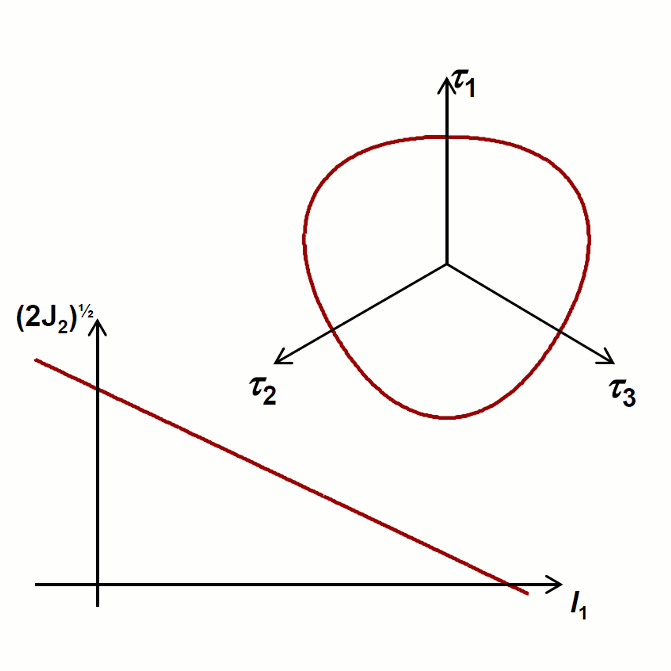
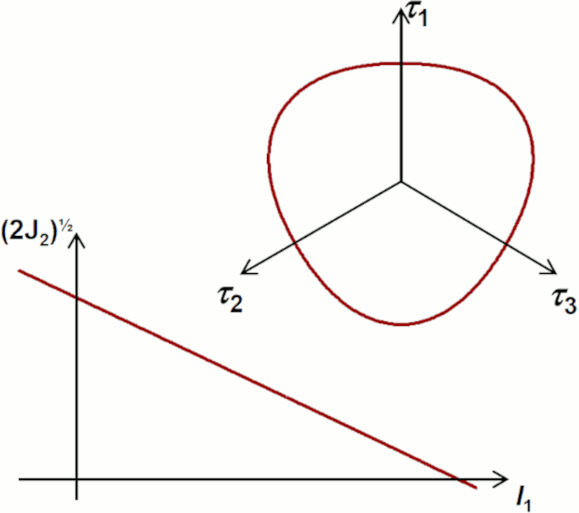
Added ReX & GG page

diff --git a/rex_gg.md b/rex_gg.md
@@ -1,0 +1,28 @@
+---
+layout: page
+title: Recrystallization and Grain Growth
+permalink: /rex_gg/
+---
+
+# Recrystallization and Grain Growth
+
+![CA](/images/ca.png)
+
+## References
+
+Further details on modeling and simulation of recrystallization and grain growth phenomena can be found in:
+
+1. [H. Hallberg, A. Chamanfar and N. Nanninga, **A constitutive model for the flow stress behavior and microstructure evolution in aluminum alloys under hot working conditions - with application to AA6099**, *Applied Mathematical Modelling*, 81C:253-262, 2020](https://doi.org/10.1016/j.apm.2019.12.020)
+2. [H. Hallberg and Vasily V. Bulatov, **Modeling of grain growth under fully anisotropic grain boundary energy**, *Modelling and Simulation in Materials Science and Engineering*, 27(4):045002, 2019](https://doi.org/10.1088/1361-651X/ab0c6c)
+3. [Y. Mellbin, H. Hallberg and M. Ristinmaa, **An extended vertex and crystal plasticity framework for efficient multiscale modeling of polycrystalline materials**, *International Journal of Solids and Structures*, 125:150-160, 2017](https://doi.org/10.1016/j.ijsolstr.2017.07.009)
+4. [H. Hallberg, F. Adamski, S. Ba{\"i}z and O. Castelnau, **Microstructure and property modifications of cold rolled IF steel by local laser annealing**, *Metallurgical and Materials Transactions A*, 48(10):4786-4802, 2017](https://doi.org/10.1007/s11661-017-4210-y)
+5. [Y. Mellbin, H. Hallberg and M. Ristinmaa, **Recrystallization and texture evolution during hot rolling of copper, studied by a multiscale model combining crystal plasticity and vertex models**, *Modelling and Simulation in Materials Science and Engineering*, 24(7):075004, 2016](https://doi.org/10.1088/0965-0393/24/7/075004)
+6. [H. Hallberg and P.A.T. Olsson, **Investigation of microstructure evolution during self-annealing in thin Cu films by combining mesoscale level set and ab-initio modeling**, *Journal of the Mechanics and Physics of Solids*, 90:160-178, 2016](https://doi.org/10.1016/j.jmps.2016.02.026)
+7. [Y. Mellbin, H. Hallberg and M. Ristinmaa], **A combined crystal plasticity and graph-based vertex model of dynamic recrystallization at large deformations**, *Modelling and Simulation in Materials Science and Engineering*, 23(4):045011, 2015](https://doi.org/10.1088/0965-0393/23/4/045011)
+8. [H. Hallberg, **Influence of anisotropic grain boundary properties on the evolution of grain boundary character distribution during grain growth - A 2D level set study**, *Modelling and Simulation in Materials Science and Engineering*, 22(8):085005, 2014](https://doi.org/10.1088/0965-0393/22/8/085005)
+9. [H. Hallberg, B. Svendsen, T. Kayser and M. Ristinmaa, **Microstructure evolution during dynamic discontinuous recrystallization in particle-containing Cu**, *Computational Materials Science*, 84:327-338, 2014](https://doi.org/10.1016/j.commatsci.2013.12.021)
+8. [H. Hallberg, **A modified level set approach to 2D modeling of dynamic recrystallization**, *Modelling and Simulation in Materials Science and Engineering*, 21(8):085012, 2013](https://doi.org/10.1088/0965-0393/21/8/085012)
+10. [H. Hallberg, **Influence of process parameters on grain refinement in AA1050 aluminum during cold rolling**, *International Journal of Mechanical Sciences*, 66C:260-272, 2013](https://doi.org/10.1016/j.ijmecsci.2012.11.016)
+11. [H. Hallberg, **Approaches to modeling of recrystallization**, *Metals*, 1(1):16-48, 2011](https://doi.org/10.3390/met1010016)
+12. [H. Hallberg, M. Wallin and M. Ristinmaa, **Simulation of discontinuous dynamic recrystallization in pure Cu using a probabilistic cellular automaton**, *Computational Materials Science*, 49:25-34, 2010](https://doi.org/10.1016/j.commatsci.2010.04.012)
+13. [H. Hallberg, M. Wallin and M. Ristinmaa, **Modeling of continuous dynamic recrystallization in commercial-purity aluminum**, *Materials Science and Engineering A*, 572:1126-1134, 2010](https://doi.org/10.1016/j.msea.2009.09.043)

diff --git a/projects_BAK20250928.md b/projects_BAK20250928.md
@@ -41,7 +41,7 @@ permalink: /projects/
   font-size: 1.4em;
   font-weight: 600;
   margin: 0 0 10px 0;
-  color: #000000;
+  color: #0366d6;
 }
 
 .project-description {
@@ -132,23 +132,21 @@ permalink: /projects/
     </div>
   </div>
 
-  <a href="/rex_gg/" class="project-link">
-    <div class="project-card">
-      <img src="/images/ca.png" alt="Recrystallization and Grain Growth" class="project-image">
-      <div class="project-content">
-        <h3 class="project-title">Recrystallization and Grain Growth</h3>
-        <p class="project-description">
-          Numerical modeling of recrystallization and grain growth by different approaches.
-        </p>
-        <div class="project-tags">
-          <span class="tag">Recrystallization</span>
-          <span class="tag">Grain Growth</span>
-          <span class="tag">Nucleation</span>
-          <span class="tag">Grain Boundaries</span>
-        </div>
+  <div class="project-card">
+    <img src="/images/ca.png" alt="Recrystallization and Grain Growth" class="project-image">
+    <div class="project-content">
+      <h3 class="project-title">Recrystallization and Grain Growth</h3>
+      <p class="project-description">
+        Numerical modeling of recrystallization and grain growth by different approaches.
+      </p>
+      <div class="project-tags">
+        <span class="tag">Recrystallization</span>
+        <span class="tag">Grain Growth</span>
+        <span class="tag">Nucleation</span>
+        <span class="tag">Grain Boundaries</span>
       </div>
     </div>
-  </a>
+  </div>
 
   <div class="project-card">
     <img src="/images/transformation_surface.png" alt="Phase Transformation" class="project-image">
